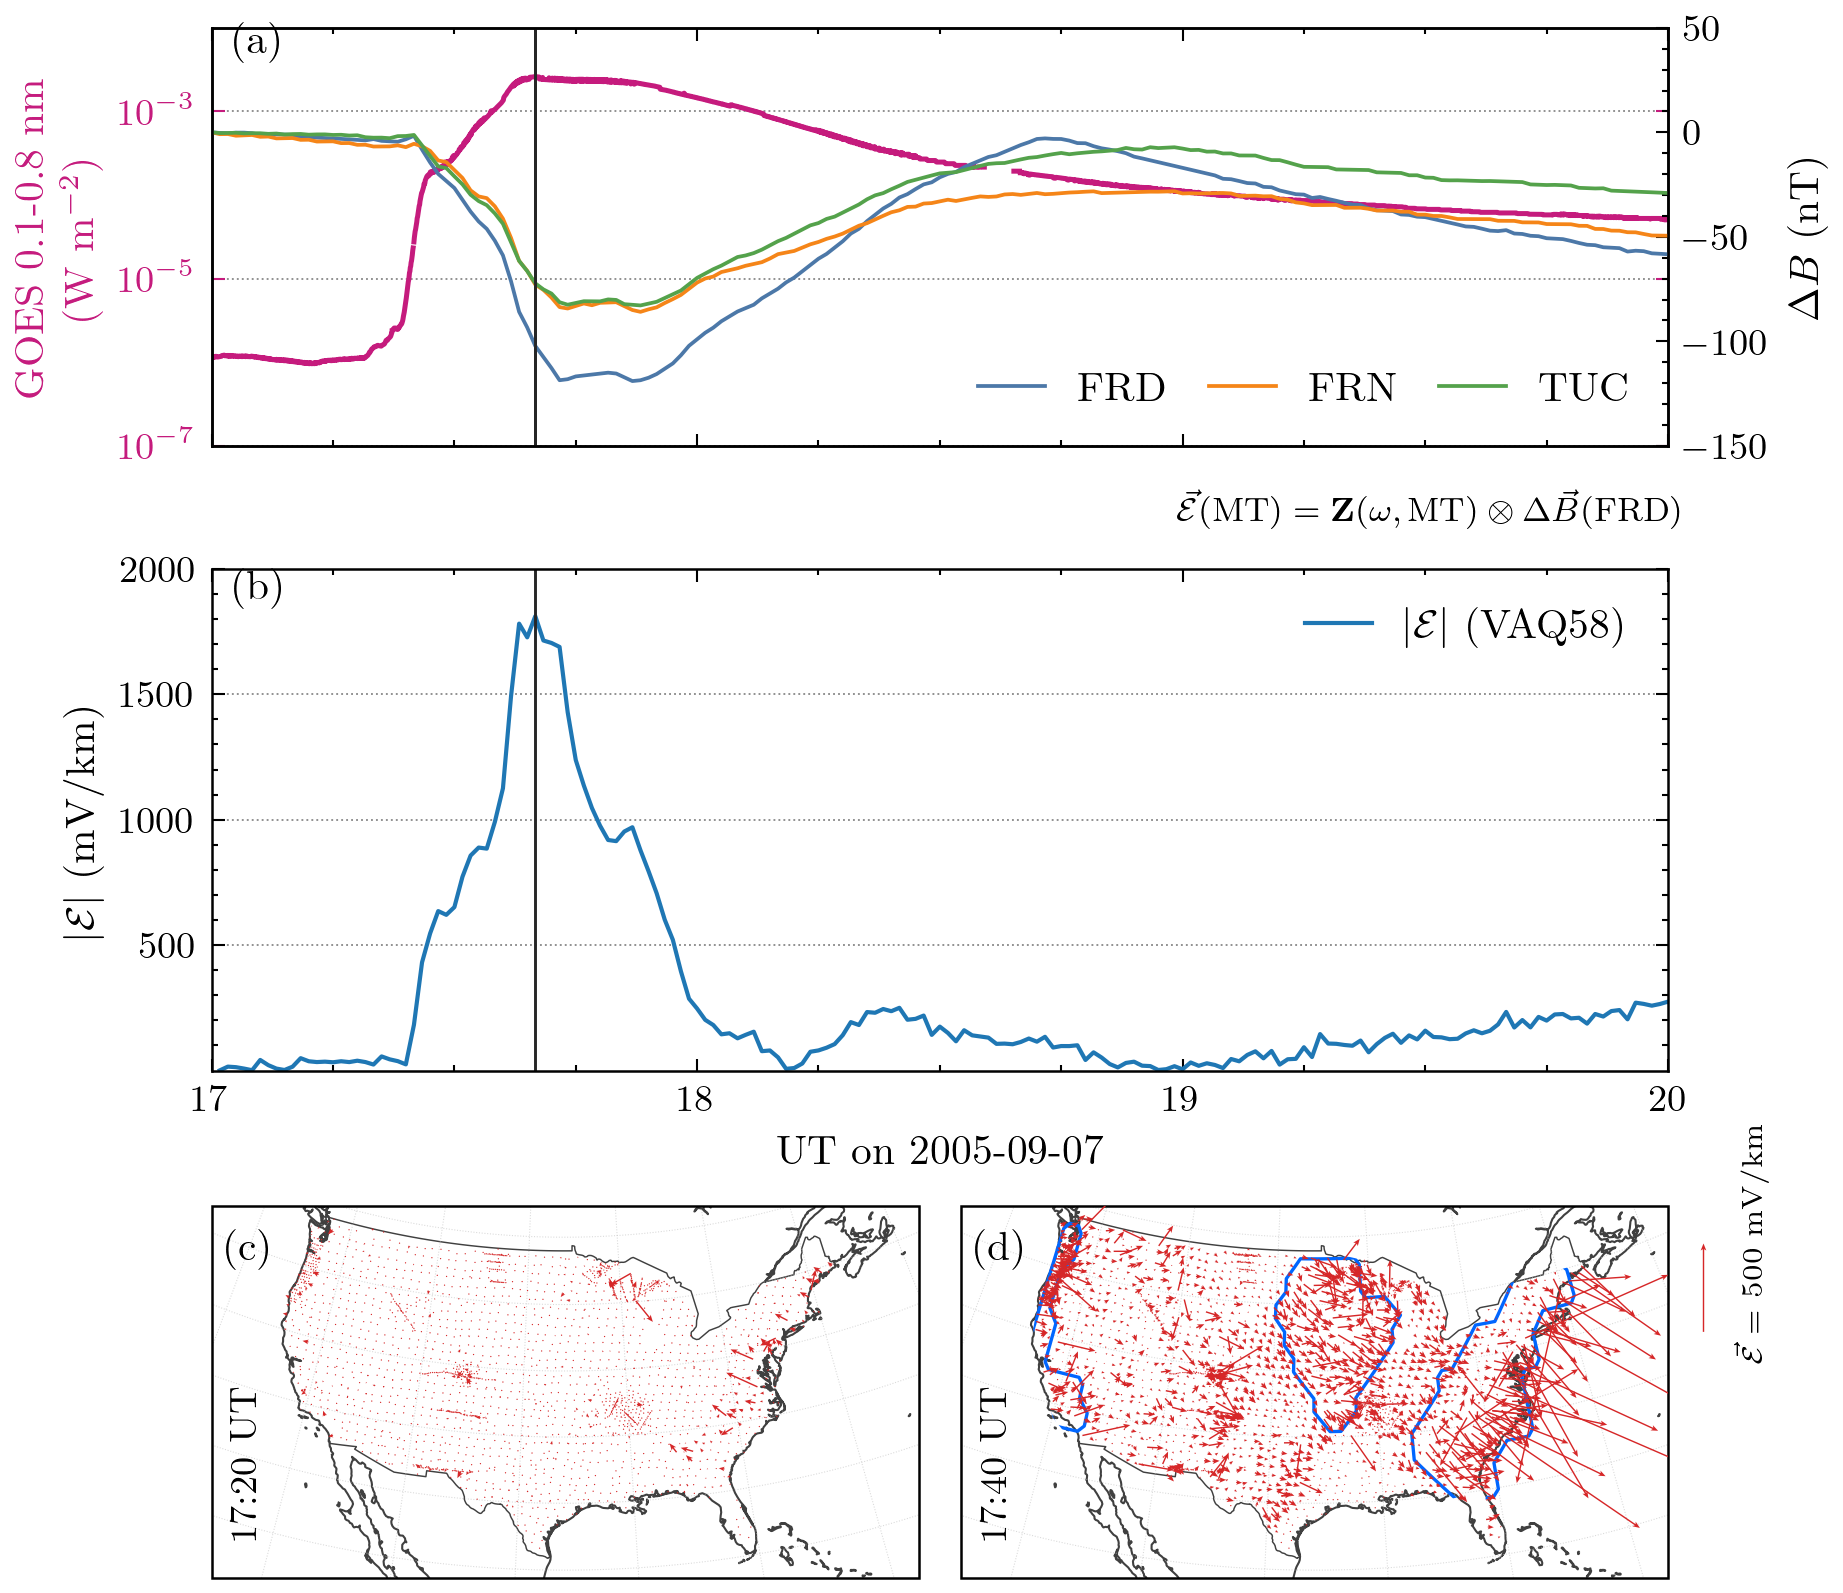
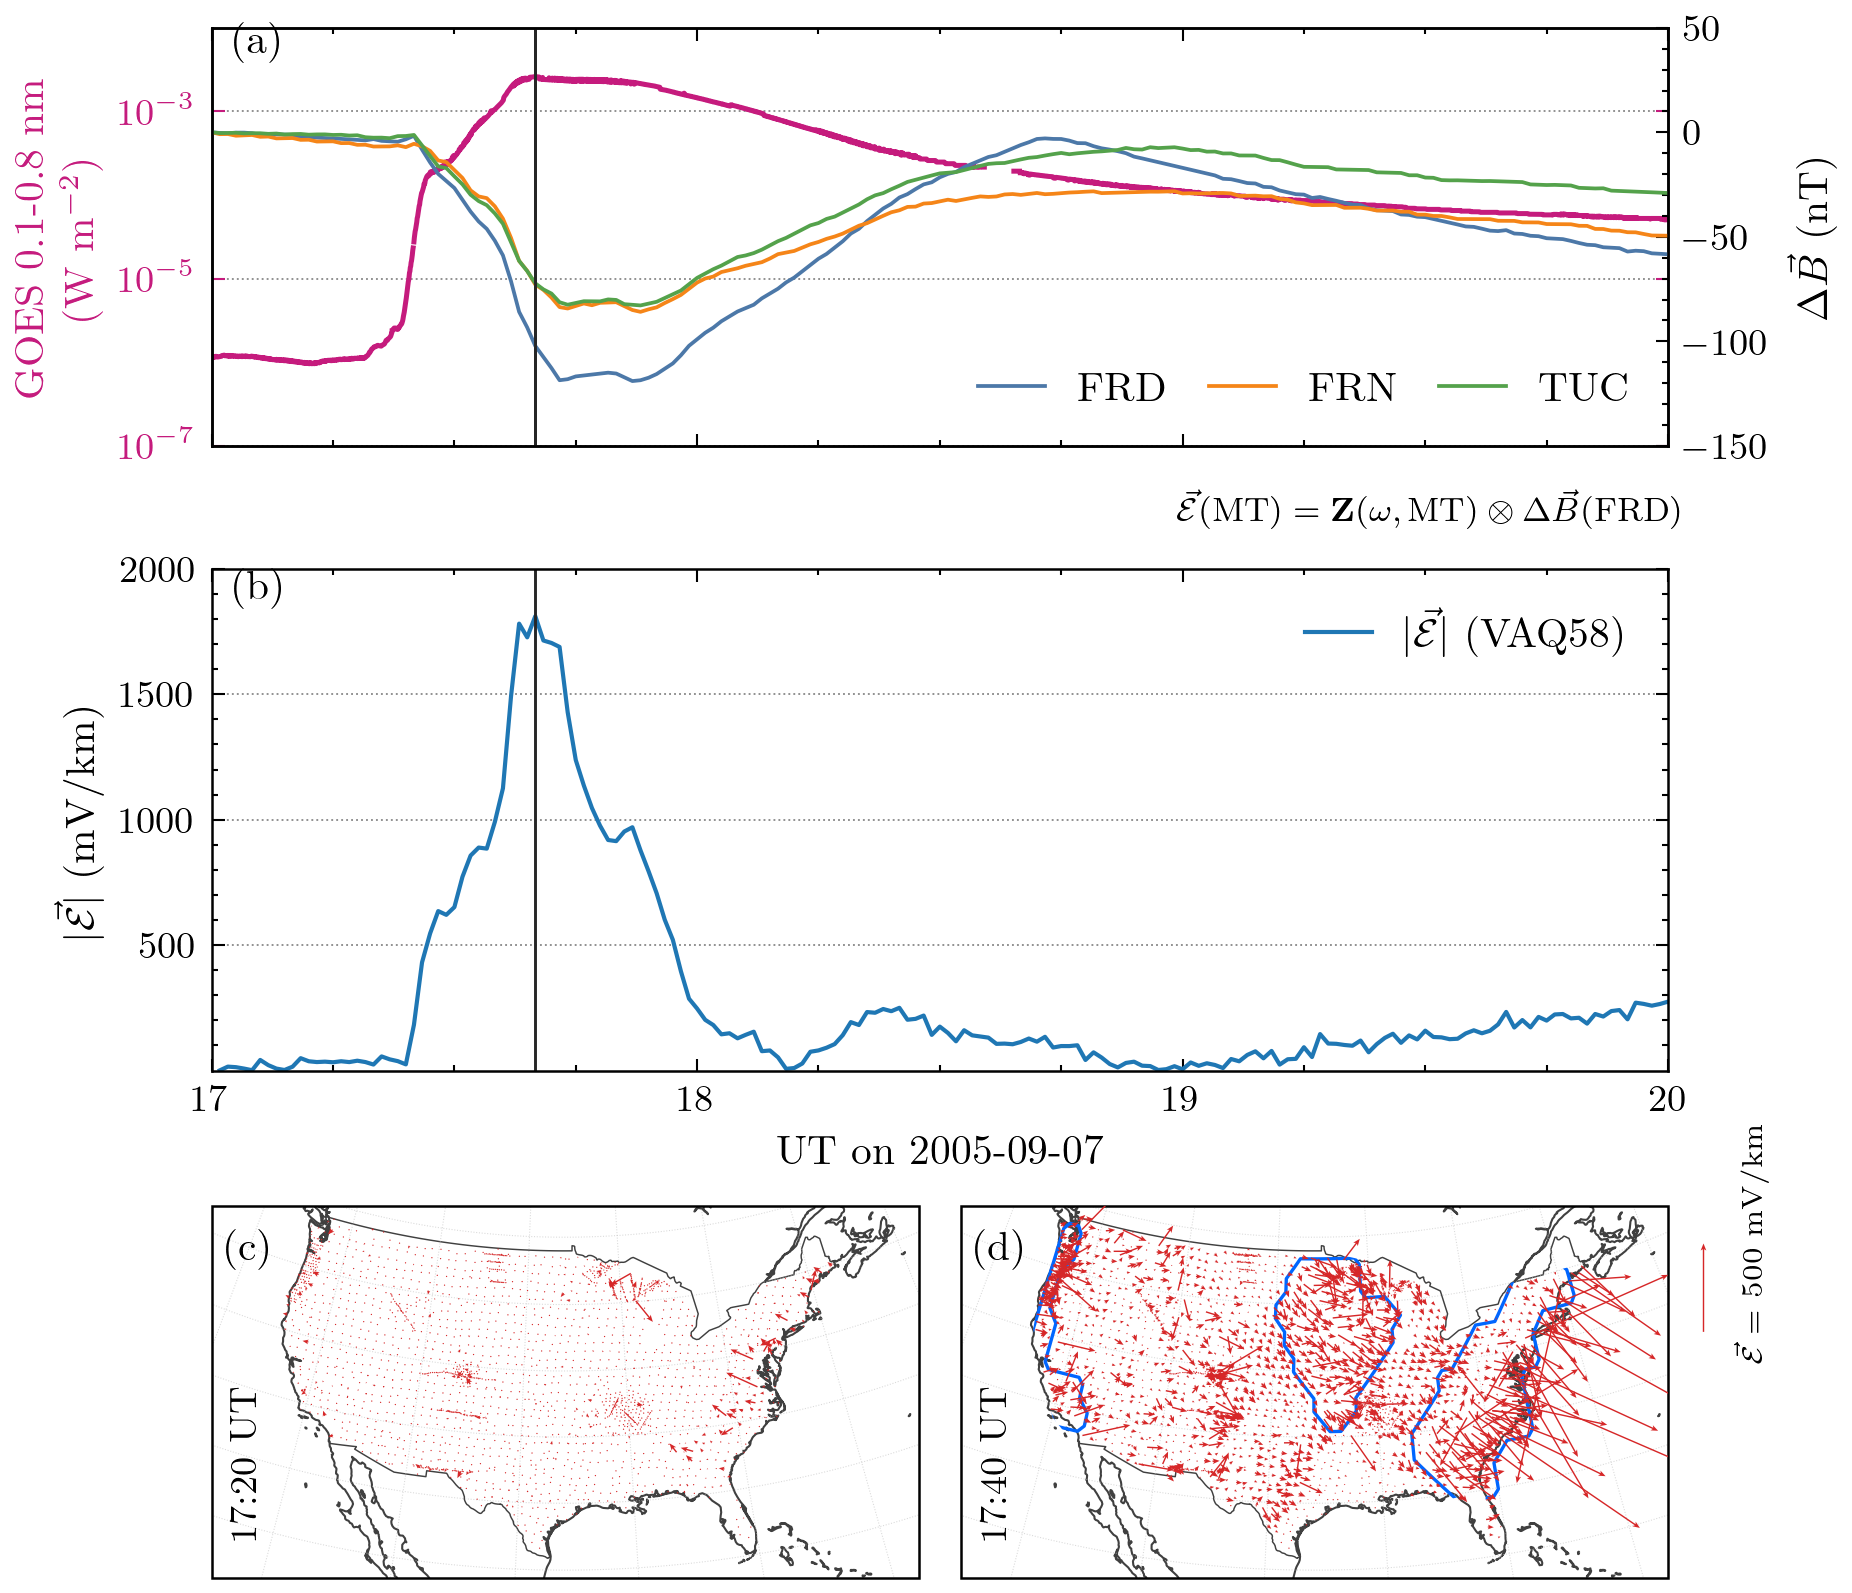
Update vector notation in case-study and stack magnetometer figures

diff --git a/py/plots/efield.py b/py/plots/efield.py
@@ -730,7 +730,7 @@ def plot_case_study(goes, smag, event, dates, stations, case_station, output,
                 color=station_colors.get(station, "#333333"),
                 label=station,
             )
-        mag_ax.set_ylabel(r"$\Delta B$ (nT)")
+        mag_ax.set_ylabel(r"$\Delta\vec{B}$ (nT)")
         mag_ax.set_ylim(-150, 50)
         mag_ax.axvline(event, color="0.15", lw=0.7)
         mag_ax.legend(loc="lower right", ncol=3, frameon=False,
@@ -747,7 +747,7 @@ def plot_case_study(goes, smag, event, dates, stations, case_station, output,
             color="#1f77b4",
             lw=1.0,
             ls="-",
-            label=rf"$|\mathcal{{E}}|$ ({primary_site_name})",
+            label=rf"$|\vec{{\mathcal{{E}}}}|$ ({primary_site_name})",
         )
         magnitude_series = [e_magnitude]
         legend_handles = [primary_line]
@@ -762,11 +762,11 @@ def plot_case_study(goes, smag, event, dates, stations, case_station, output,
         #         color="#d62728",
         #         lw=1.0,
         #         ls="-",
-        #         label=r"$|\mathcal{E}|$ (VAQ55)",
+        #         label=r"$|\vec{\mathcal{E}}|$ (VAQ55)",
         #     )
         #     magnitude_series.append(e_magnitude_55)
         #     legend_handles.append(secondary_line)
-        ax_bottom.set_ylabel(r"$|\mathcal{E}|$ (mV/km)")
+        ax_bottom.set_ylabel(r"$|\vec{\mathcal{E}}|$ (mV/km)")
         finite_magnitude = np.concatenate([
             np.asarray(series)[np.isfinite(series)] for series in magnitude_series
         ])

diff --git a/simulation.py b/simulation.py
@@ -328,7 +328,7 @@ def stack_mag_mod_plots(
                 ha="right", va="top", fontsize=12)
         ax.text(0.02, 0.93, f"({chr(103 + i)})", transform=ax.transAxes,
                 fontsize=12, va="top", fontweight="bold")
-        ax.set_ylabel(r"$\Delta B_{x,y}$ (nT)", fontsize=12, labelpad=8)
+        ax.set_ylabel(r"$\Delta\vec{B}$ (nT)", fontsize=12, labelpad=8)
         lat_key = "mlat" if "mlat" in data.columns else "glat"
         lon_key = "mlon" if "mlon" in data.columns else "glon"
         if (lat_key in data.columns and lon_key in data.columns
